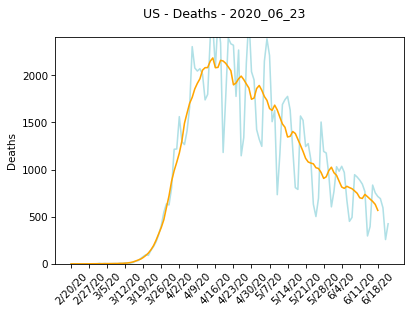
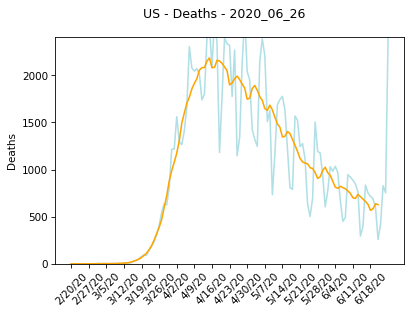
Updated script to properly output total US deaths

Changed region(s): [[0.1752, 0.1146, 0.9635, 0.9745], [0.7007, 0.0287, 0.7591, 0.0573]]

diff --git a/covid19.py b/covid19.py
@@ -23,7 +23,7 @@ import numpy as np
 import datetime
 
 
-verbose = False
+verbose = True
 
 
 def adjust_header(df):
@@ -154,4 +154,5 @@ deaths_US_by_state = deaths_US_by_state.append(deaths_US_by_state.sum(axis=0).re
 plot_deaths(deaths_US_by_state, "3/17/20", 'plots/Deaths/')
 
 deaths_global_by_country = deaths_global_by_country.append(deaths_global_by_country.sum(axis=0).rename("Total"))
-plot_deaths(deaths_global_by_country, "2/16/20", 'plots/Global_Deaths/')
+US_deaths = pd.DataFrame(deaths_global_by_country.loc["US", :]).T
+plot_deaths(US_deaths, "2/16/20", 'plots/Global_Deaths/')
